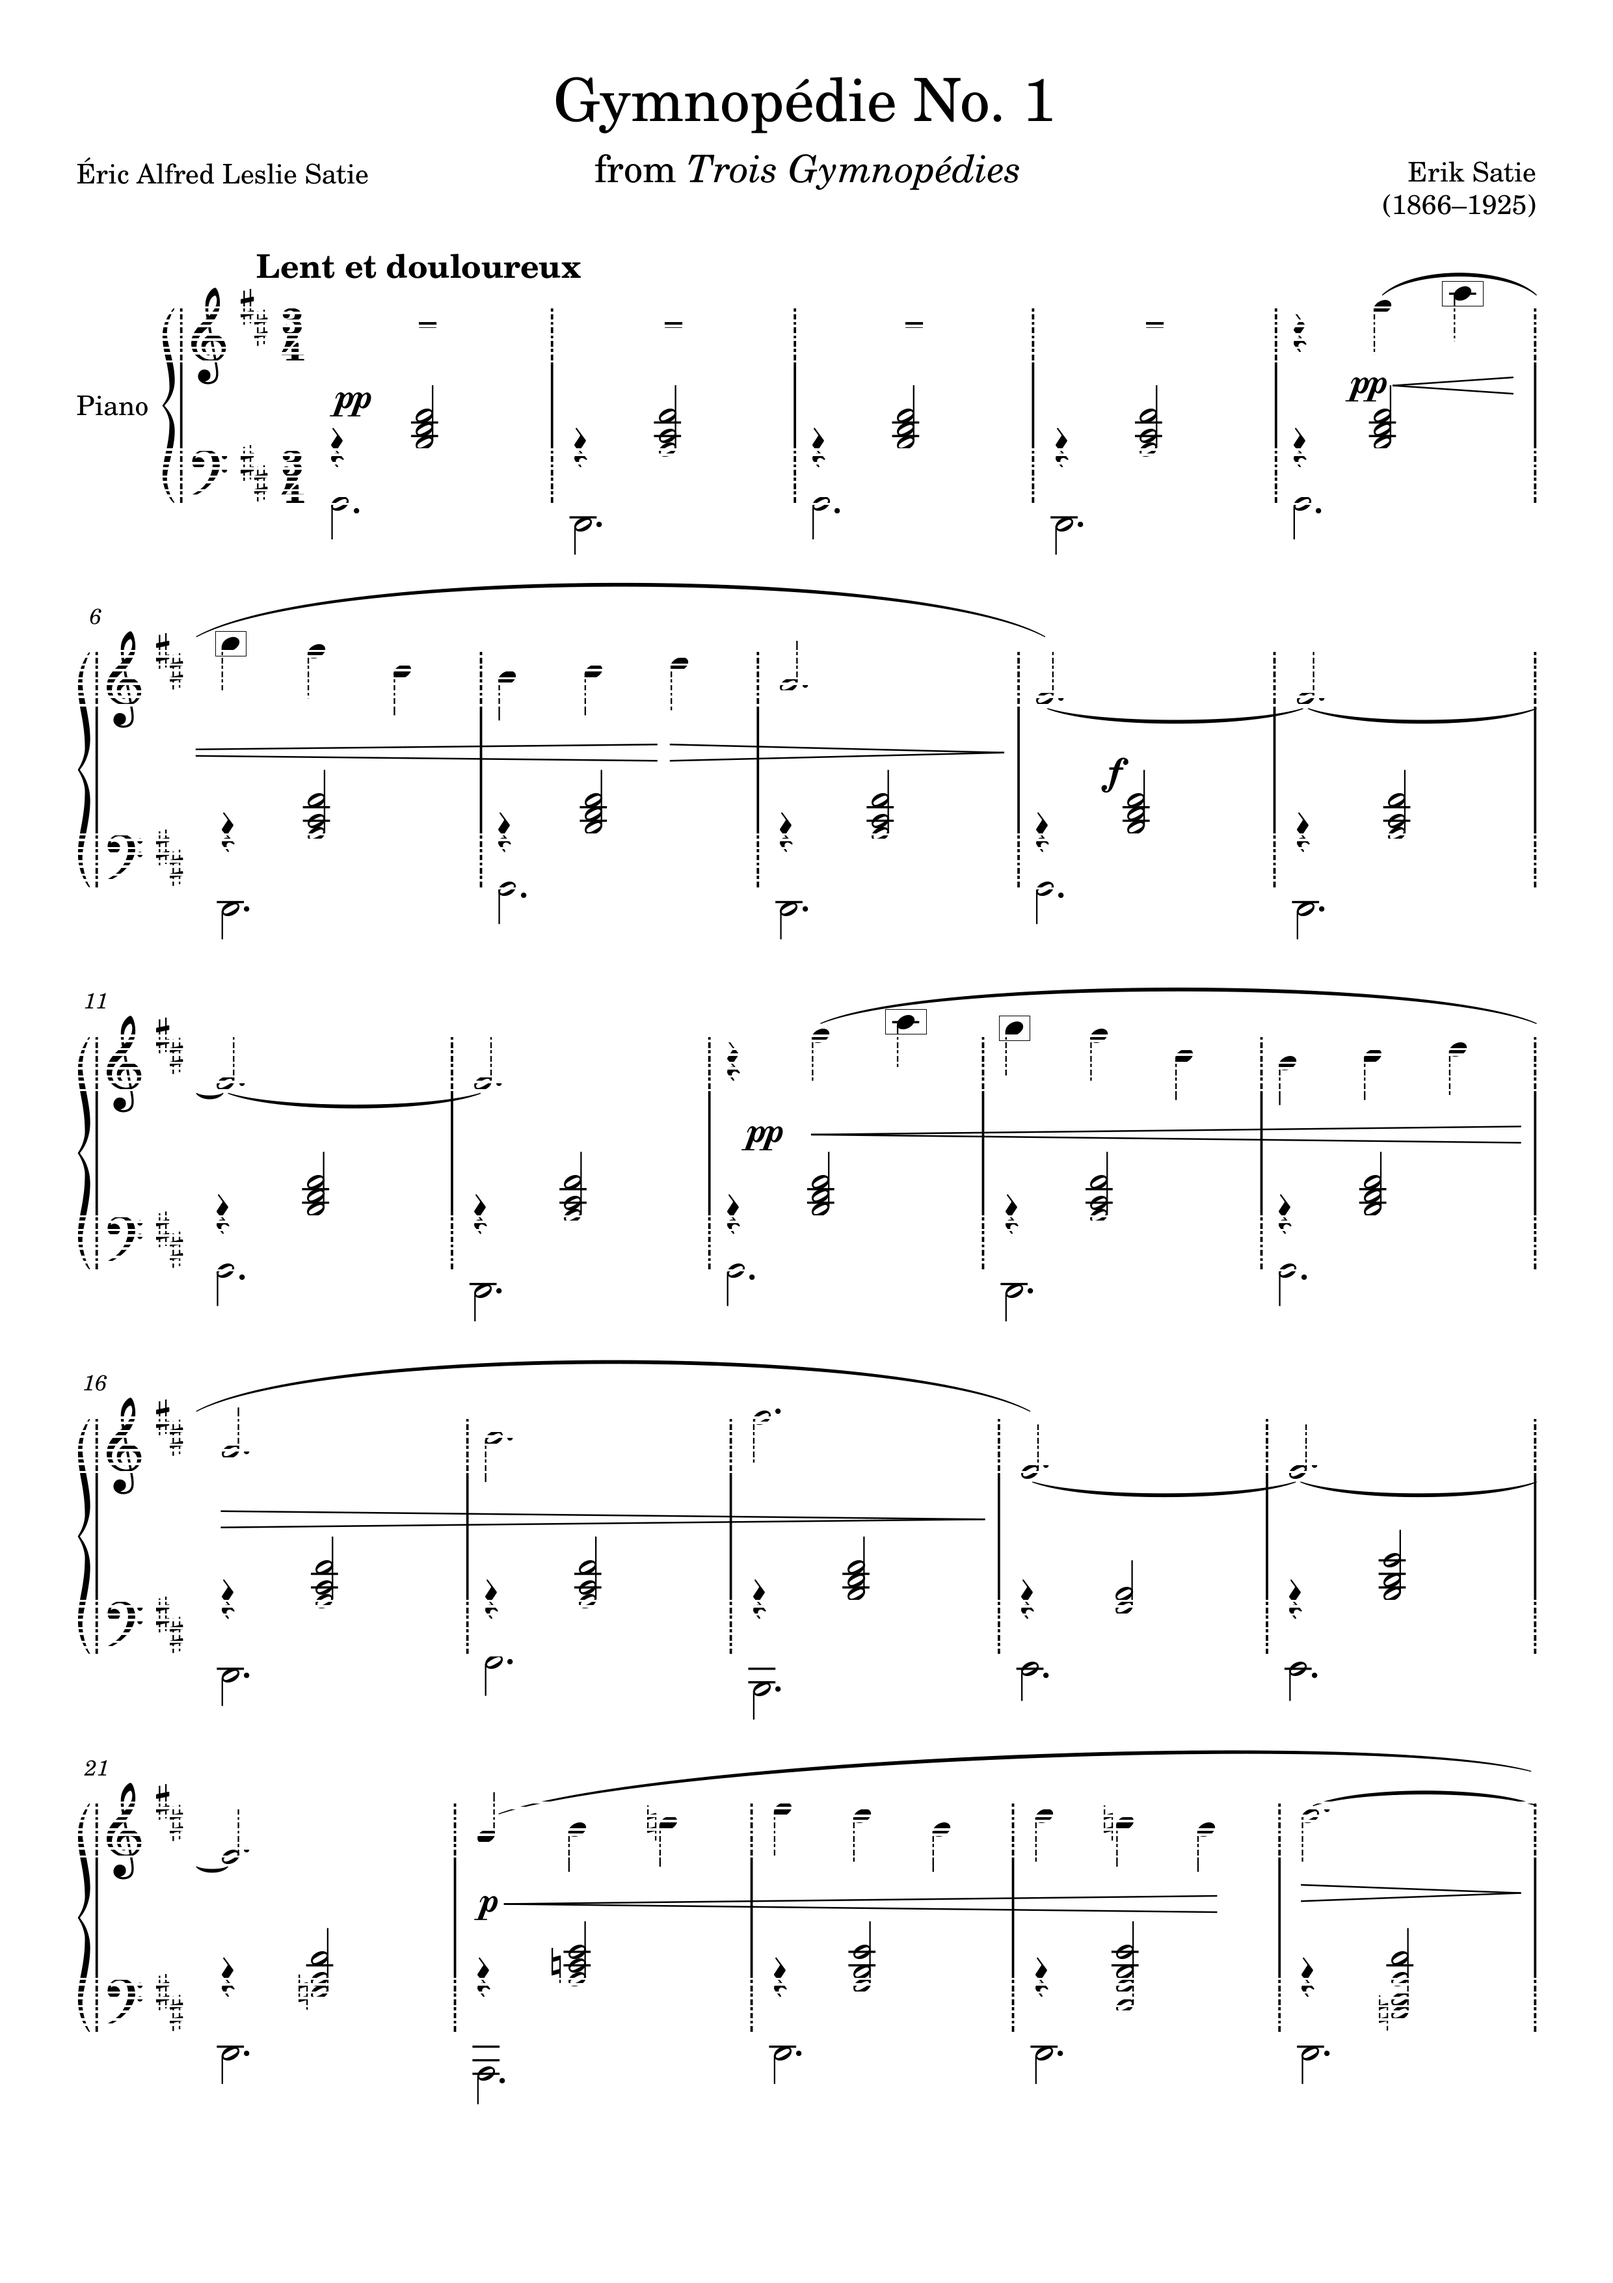
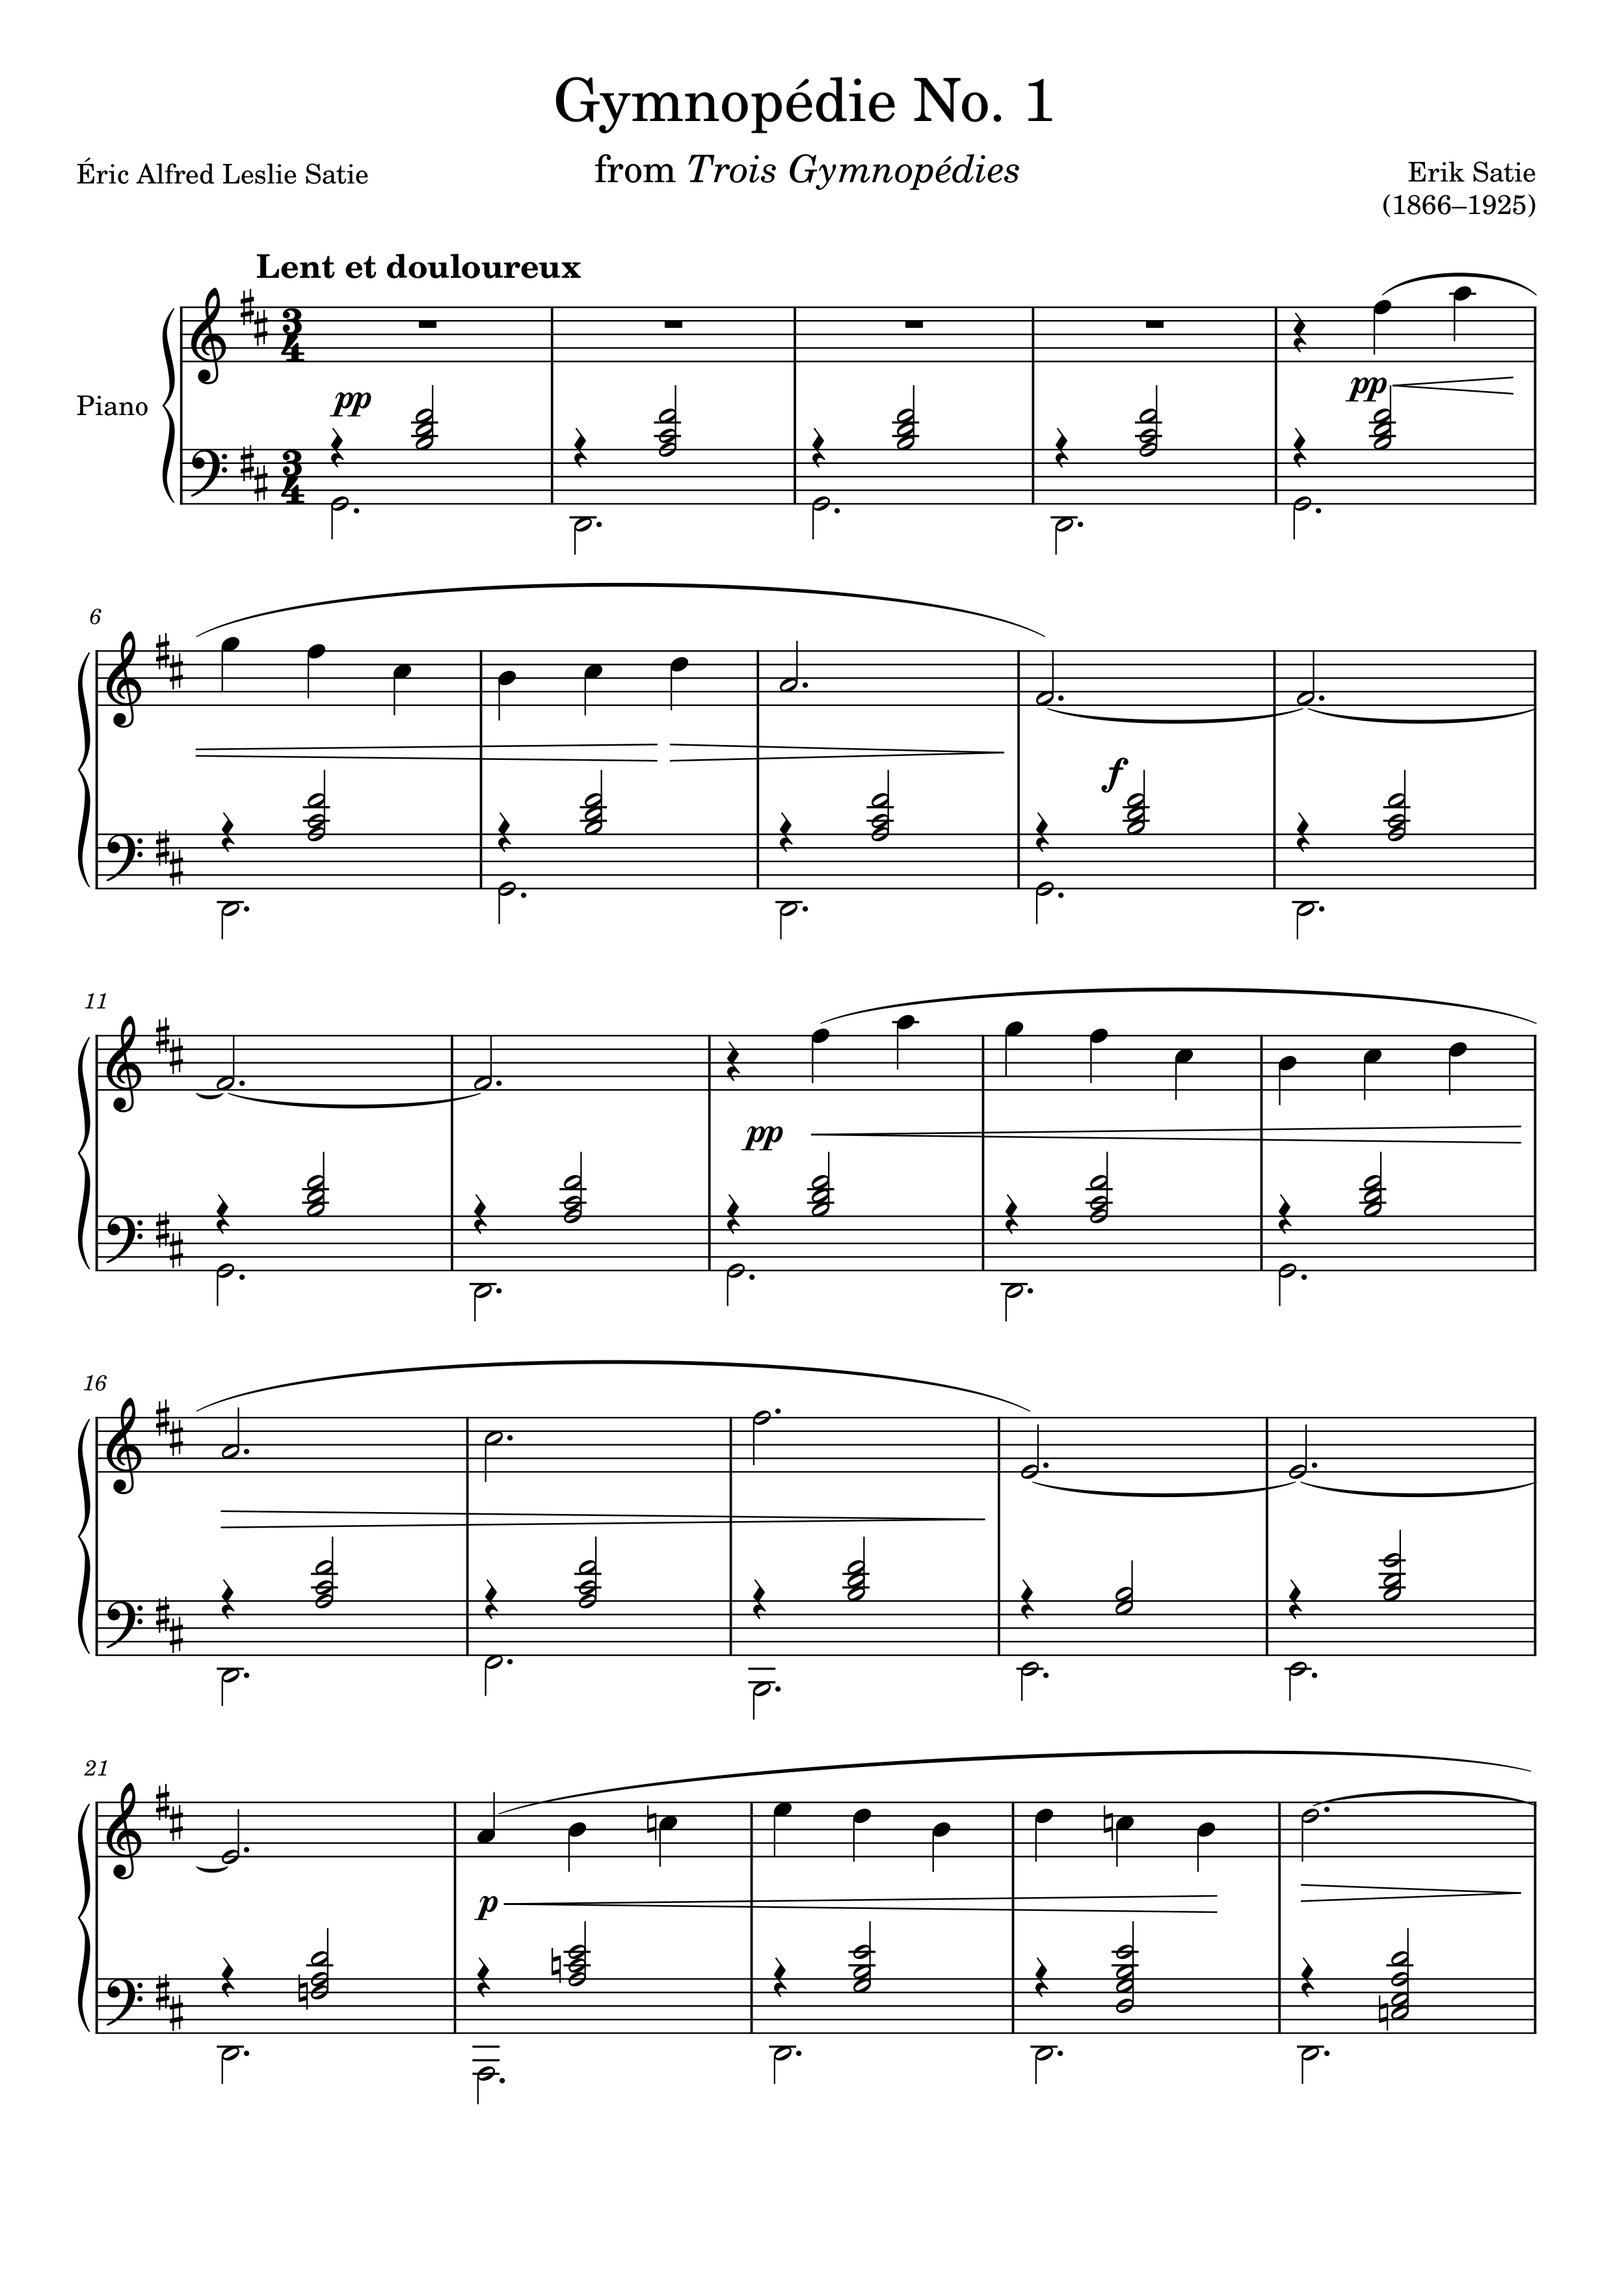
qwer

diff --git a/main.py b/main.py
@@ -117,8 +117,6 @@ def extract_highlighted_lines_and_columns_from_image(image_path, threshold=2/3):
                 stopping_point = (row[1] + lines[row_index + 1][1]) / 2
             counter = 1
             while current_y <= stopping_point:
-                if counter % 2 == 0:
-                    img_array[current_y - round(line_height / 2): current_y + round(line_height / 2), 0: width] = 255
                 group.append(current_y)
                 current_y += round(difference_between_lines_for_line_drawing / 2)
                 counter+=1
@@ -132,8 +130,6 @@ def extract_highlighted_lines_and_columns_from_image(image_path, threshold=2/3):
                 stopping_point = (row[1] + lines[row_index - 1][1]) / 2
             counter = 1
             while current_y >= stopping_point:
-                if counter % 2 == 0:
-                    img_array[current_y - round(line_height / 2): current_y + round(line_height / 2), 0: width] = 255
                 group.append(current_y)
                 current_y -= round(difference_between_lines_for_line_drawing / 2)
                 counter+=1
@@ -142,11 +138,15 @@ def extract_highlighted_lines_and_columns_from_image(image_path, threshold=2/3):
                 #everything here get's removed and replaced
                 future_line = lines[row_index + add_row_index + 1][1]                 
                 group.append(int((future_line + lines[row_index + add_row_index][1]) / 2))
-                img_array[group[-1] - round(line_height / 2): group[-1] + round(line_height / 2), 0: width] = 255
                 if add_row_index != 3:
                     group.append(future_line)
-                    img_array[group[-1] - round(line_height / 2): group[-1] + round(line_height / 2), 0: width] = 255
 
+    for group in invisible_lines:
+        for current_loop_y in group:
+            #this will be line removal and fill in
+            #img_array[current_y - round(line_height / 2): current_y + round(line_height / 2), 0: width] = 255
+            print()
+    #might even reverse and just get everythng and then do the removal part 
     img = Image.fromarray(img_array)
     img.save(image_path)
     print('saved image at ' + image_path)
